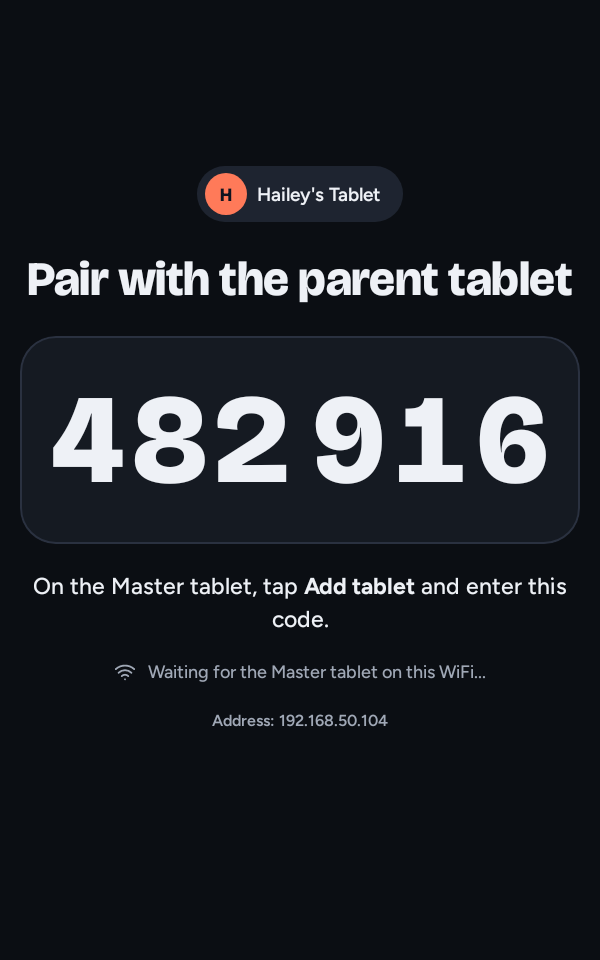
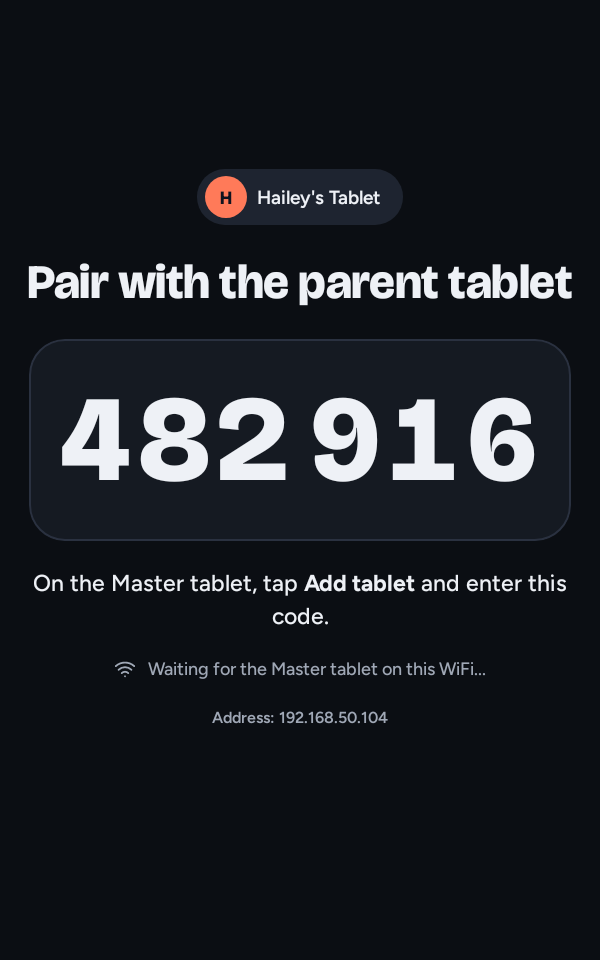
restore qr setup, make it fit landscape tablets, pin update state in screen tests

diff --git a/app/src/main/java/com/nbaltas/nickos/ui/master/QrSetup.kt b/app/src/main/java/com/nbaltas/nickos/ui/master/QrSetup.kt
@@ -1,0 +1,126 @@
+package com.nbaltas.nickos.ui.master
+
+import android.graphics.Bitmap
+import androidx.compose.foundation.Image
+import androidx.compose.foundation.background
+import androidx.compose.foundation.layout.Arrangement
+import androidx.compose.foundation.layout.Box
+import androidx.compose.foundation.layout.BoxWithConstraints
+import androidx.compose.foundation.layout.Column
+import androidx.compose.foundation.layout.Row
+import androidx.compose.foundation.layout.fillMaxSize
+import androidx.compose.foundation.layout.fillMaxWidth
+import androidx.compose.foundation.layout.padding
+import androidx.compose.foundation.layout.size
+import androidx.compose.foundation.layout.width
+import androidx.compose.foundation.layout.widthIn
+import androidx.compose.foundation.rememberScrollState
+import androidx.compose.foundation.shape.CircleShape
+import androidx.compose.foundation.shape.RoundedCornerShape
+import androidx.compose.foundation.verticalScroll
+import androidx.compose.material3.Text
+import androidx.compose.runtime.Composable
+import androidx.compose.runtime.getValue
+import androidx.compose.runtime.mutableStateOf
+import androidx.compose.runtime.produceState
+import androidx.compose.runtime.remember
+import androidx.compose.runtime.setValue
+import androidx.compose.ui.Alignment
+import androidx.compose.ui.Modifier
+import androidx.compose.ui.draw.clip
+import androidx.compose.ui.graphics.Color
+import androidx.compose.ui.graphics.FilterQuality
+import androidx.compose.ui.graphics.asImageBitmap
+import androidx.compose.ui.platform.LocalContext
+import androidx.compose.ui.unit.dp
+import androidx.compose.ui.unit.sp
+import com.google.zxing.BarcodeFormat
+import com.google.zxing.EncodeHintType
+import com.google.zxing.qrcode.QRCodeWriter
+import com.google.zxing.qrcode.decoder.ErrorCorrectionLevel
+import com.nbaltas.nickos.node.Provisioning
+import com.nbaltas.nickos.ui.theme.C
+import com.nbaltas.nickos.ui.theme.FieldLabel
+import com.nbaltas.nickos.ui.theme.Muted
+import com.nbaltas.nickos.ui.theme.NickField
+import com.nbaltas.nickos.ui.theme.SetupHeader
+import com.nbaltas.nickos.ui.theme.Title
+import com.nbaltas.nickos.ui.theme.body
+import com.nbaltas.nickos.ui.theme.disp
+import kotlinx.coroutines.Dispatchers
+import kotlinx.coroutines.withContext
+
+/**
+ * Zero-adb kid tablet setup. Not in the design handoff; follows the Add tablet screen's layout.
+ * Only works on a new or factory-reset tablet: that's Android's rule for Device Owner.
+ */
+@Composable
+fun QrSetupScreen(onBack: () -> Unit, qrDispatcher: kotlinx.coroutines.CoroutineDispatcher = Dispatchers.Default) {
+    val ctx = LocalContext.current
+    var ssid by remember { mutableStateOf("") }
+    var pass by remember { mutableStateOf("") }
+    val qr by produceState<Bitmap?>(null, ssid, pass) {
+        value = withContext(qrDispatcher) { qrBitmap(Provisioning.qrPayload(ctx, ssid.trim(), pass), 900) }
+    }
+    Column(Modifier.fillMaxSize()) {
+        SetupHeader("Master · New kid tablet", onBack)
+        BoxWithConstraints(Modifier.fillMaxSize()) {
+            // Landscape tablets (Orbic 960x600, Galaxy Tab S2 1024x768): code beside the steps, code sized to the height.
+            val landscape = maxWidth > maxHeight && maxWidth >= 700.dp
+            val narrow = maxWidth < 1000.dp && !landscape
+            val compact = landscape && (maxWidth < 1100.dp || maxHeight < 800.dp)
+            val qrSize = if (compact) (maxHeight - 40.dp).coerceIn(260.dp, 460.dp) else 460.dp
+            val steps: @Composable (Modifier) -> Unit = { mod ->
+                Column(mod, verticalArrangement = Arrangement.spacedBy(if (compact) 12.dp else 20.dp)) {
+                    Title("Set up a new kid tablet", if (compact) 38 else 48, lineHeight = 1.02f)
+                    Muted("No cables or computer needed. The kid lock is switched on from the start.", if (compact) 17 else 20)
+                    Step(1, "Start from a new or factory-reset tablet (Settings → System → Reset).")
+                    Step(2, "On its first \"Welcome\" screen, tap the same empty spot 6 times.")
+                    Step(3, "Connect to WiFi if it asks, then point it at this code.")
+                    Step(4, "It installs NickOS by itself. Then name the tablet and pair it with its 6-digit code.")
+                    Column(Modifier.padding(top = 8.dp), verticalArrangement = Arrangement.spacedBy(14.dp)) {
+                        Muted("Optional: put your WiFi in the code so the tablet joins it by itself.", 16)
+                        Row(horizontalArrangement = Arrangement.spacedBy(16.dp)) {
+                            Column(Modifier.weight(1f)) { FieldLabel("WiFi name"); NickField(ssid, { ssid = it }) }
+                            Column(Modifier.weight(1f)) { FieldLabel("WiFi password"); NickField(pass, { pass = it }, password = true) }
+                        }
+                    }
+                }
+            }
+            val code: @Composable () -> Unit = {
+                Box(Modifier.size(qrSize).clip(RoundedCornerShape(36.dp)).background(Color.White).padding(if (compact) 16.dp else 24.dp), contentAlignment = Alignment.Center) {
+                    qr?.let { Image(it.asImageBitmap(), "Setup QR code", Modifier.fillMaxSize(), filterQuality = FilterQuality.None) }
+                }
+            }
+            if (narrow) {
+                Column(Modifier.fillMaxSize().verticalScroll(rememberScrollState()).padding(32.dp), horizontalAlignment = Alignment.CenterHorizontally, verticalArrangement = Arrangement.spacedBy(32.dp)) {
+                    code(); steps(Modifier.fillMaxWidth())
+                }
+            } else {
+                Row(
+                    Modifier.fillMaxSize().verticalScroll(rememberScrollState()).padding(start = if (compact) 32.dp else 80.dp, end = if (compact) 32.dp else 80.dp, bottom = if (compact) 16.dp else 48.dp),
+                    horizontalArrangement = Arrangement.spacedBy(if (compact) 32.dp else 64.dp), verticalAlignment = Alignment.CenterVertically,
+                ) { steps(Modifier.weight(1f)); code() }
+            }
+        }
+    }
+}
+
+@Composable
+private fun Step(n: Int, text: String) {
+    Row(verticalAlignment = Alignment.CenterVertically, horizontalArrangement = Arrangement.spacedBy(16.dp)) {
+        Box(Modifier.size(40.dp).clip(CircleShape).background(C.accent), contentAlignment = Alignment.Center) {
+            Text("$n", style = disp(20.sp), color = C.onAccent)
+        }
+        Text(text, style = body(19.sp, 600, 1.35f), color = C.text, modifier = Modifier.widthIn(max = 560.dp))
+    }
+}
+
+private fun qrBitmap(text: String, size: Int): Bitmap {
+    val m = QRCodeWriter().encode(
+        text, BarcodeFormat.QR_CODE, size, size,
+        mapOf(EncodeHintType.MARGIN to 0, EncodeHintType.ERROR_CORRECTION to ErrorCorrectionLevel.M, EncodeHintType.CHARACTER_SET to "UTF-8"),
+    )
+    val px = IntArray(size * size) { i -> if (m.get(i % size, i / size)) 0xFF000000.toInt() else 0xFFFFFFFF.toInt() }
+    return Bitmap.createBitmap(px, size, size, Bitmap.Config.ARGB_8888)
+}

diff --git a/app/src/test/java/com/nbaltas/nickos/ui/SetupScreensTest.kt b/app/src/test/java/com/nbaltas/nickos/ui/SetupScreensTest.kt
@@ -5,8 +5,10 @@ import androidx.compose.foundation.layout.fillMaxSize
 import androidx.compose.ui.Modifier
 import androidx.compose.ui.semantics.SemanticsActions
 import androidx.compose.ui.semantics.getOrNull
+import androidx.compose.ui.layout.boundsInRoot
 import androidx.compose.ui.test.junit4.createComposeRule
-import androidx.compose.ui.test.onAllNodesWithText
+import androidx.compose.ui.test.onNodeWithContentDescription
+import androidx.compose.ui.test.onRoot
 import androidx.compose.ui.test.onNodeWithText
 import com.nbaltas.nickos.ui.setup.AddTabletScreen
 import com.nbaltas.nickos.ui.setup.PairingCodeBody
@@ -41,6 +43,7 @@ class SetupScreensTest {
         assertEquals("the 6-digit code wrapped onto more than one line", 1, layout.lineCount)
         assertTrue("the 6-digit code is wider than the room it has (${layout.size.width} > ${layout.layoutInput.constraints.maxWidth})", layout.size.width <= layout.layoutInput.constraints.maxWidth)
         assertFalse("part of the code was cut", layout.isLineEllipsized(0))
+        assertEquals("only part of the code is visible (the rest was cut off) size=${layout.size} fs=${layout.layoutInput.style.fontSize} cons=${layout.layoutInput.constraints} sw=${layout.layoutInput.softWrap} lc=${layout.lineCount} text=${layout.layoutInput.text.length}", grouped.length, layout.getLineEnd(0, visibleEnd = true))
     }
 
     @Test fun codeFitsLandscape960() = assertCodeIntact()
@@ -49,11 +52,30 @@ class SetupScreensTest {
     @Config(qualifiers = "w600dp-h960dp-port-mdpi") @Test fun codeFitsPortrait600() = assertCodeIntact()
     @Config(qualifiers = "w400dp-h800dp-port-mdpi") @Test fun codeFitsPhone() = assertCodeIntact()
 
-    @Test fun addTabletNoLongerOffersQrSetup() {
-        rule.setContent { NickTheme { Box(Modifier.fillMaxSize()) { AddTabletScreen({}, "Master · Add tablet") {} } } }
+    /** Robolectric installs the app with no signing certificate; the QR payload needs one. */
+    private fun giveAppASignature() {
+        val ctx = androidx.test.core.app.ApplicationProvider.getApplicationContext<android.content.Context>()
+        org.robolectric.Shadows.shadowOf(ctx.packageManager).getInternalMutablePackageInfo(ctx.packageName).signatures = arrayOf(android.content.pm.Signature("0102030405"))
+    }
+
+    private fun assertQrWholeAndBigEnough(minDp: Int) {
+        giveAppASignature()
+        rule.setContent { NickTheme { Box(Modifier.fillMaxSize()) { com.nbaltas.nickos.ui.master.QrSetupScreen({}, kotlinx.coroutines.Dispatchers.Unconfined) } } }
         rule.waitForIdle()
-        assertTrue(rule.onAllNodesWithText("QR", substring = true, ignoreCase = true).fetchSemanticsNodes().isEmpty())
-        assertTrue(rule.onAllNodesWithText("Brand-new", substring = true).fetchSemanticsNodes().isEmpty())
-        rule.onNodeWithText("Add tablet").assertExists()
+        val n = rule.onNodeWithContentDescription("Setup QR code").assertExists().fetchSemanticsNode()
+        val b = n.boundsInRoot
+        val root = rule.onRoot().fetchSemanticsNode().boundsInRoot
+        val dp = rule.density.run { b.width.toDp().value }
+        assertTrue("the QR code is clipped by the screen: $b in $root", b.left >= root.left && b.top >= root.top && b.right <= root.right && b.bottom <= root.bottom)
+        assertTrue("the QR code is too small to scan reliably ($dp dp)", dp >= minDp)
+    }
+
+    @Config(sdk = [27]) @Test fun qrSetupWholeAtLandscape960() = assertQrWholeAndBigEnough(380)
+    @Config(sdk = [27], qualifiers = "w1024dp-h768dp-land-mdpi") @Test fun qrSetupWholeAtLandscape1024() = assertQrWholeAndBigEnough(420)
+
+    @Test fun addTabletStillOffersQrSetupWhenWired() {
+        rule.setContent { NickTheme { Box(Modifier.fillMaxSize()) { AddTabletScreen({}, "Master · Add tablet", onQr = {}) {} } } }
+        rule.waitForIdle()
+        rule.onNodeWithText("Brand-new", substring = true).assertExists()
     }
 }

diff --git a/app/src/main/java/com/nbaltas/nickos/ui/setup/Setup.kt b/app/src/main/java/com/nbaltas/nickos/ui/setup/Setup.kt
@@ -332,9 +332,9 @@ fun PairingCodeBody(name: String, color: Int, avatar: String, code: String?) {
             val measurer = rememberTextMeasurer()
             val density = LocalDensity.current
             val style = disp(codeMax.sp, 800, 1f).copy(letterSpacing = 0.06.em, fontFeatureSettings = "tnum")
-            val fullWidth = remember(grouped, density) { measurer.measure(grouped, style, softWrap = false, maxLines = 1).size.width }
+            val fullWidth = measurer.measure(grouped, style, softWrap = false, maxLines = 1).size.width
             val availPx = with(density) { availWidth.toPx() }
-            val sp = if (fullWidth <= availPx || fullWidth == 0) codeMax else (codeMax * availPx / fullWidth).toInt().coerceAtLeast(40)
+            val sp = if (fullWidth <= availPx * 0.96f || fullWidth == 0) codeMax else (codeMax * availPx * 0.96f / fullWidth).toInt().coerceAtLeast(40)
             Text(
                 grouped,
                 style = style.copy(fontSize = sp.sp, lineHeight = sp.sp),
@@ -371,7 +371,7 @@ private fun wifiAddress(): String? = try {
 
 /** Enter a Node's 6-digit code. Used in setup, from the home "Add tablet" card and Settings. */
 @Composable
-fun AddTabletScreen(back: () -> Unit, step: String, onLinked: (MasterRuntime.PairResult) -> Unit) {
+fun AddTabletScreen(back: () -> Unit, step: String, onQr: (() -> Unit)? = null, onLinked: (MasterRuntime.PairResult) -> Unit) {
     val app = App.get(LocalContext.current)
     val scope = rememberCoroutineScope()
     var digits by rememberSaveable { mutableStateOf("") }
@@ -403,6 +403,10 @@ fun AddTabletScreen(back: () -> Unit, step: String, onLinked: (MasterRuntime.Pai
                 Column(m, verticalArrangement = Arrangement.spacedBy(22.dp)) {
                     Title("Add tablet", 56)
                     Muted("Enter the 6-digit code showing on the kid's tablet. Both tablets need to be on the same WiFi.", 22, Modifier.widthIn(max = 460.dp))
+                    if (onQr != null) Text(
+                        "Brand-new or reset tablet? Set it up with a QR code",
+                        style = body(19.sp, 700), color = C.accent, modifier = Modifier.clickable(onClick = onQr),
+                    )
                     if (typing) Column {
                         FieldLabel("Kid's tablet address (shown under its code)")
                         NickField(address, { address = it.trim() }, Modifier.widthIn(max = 460.dp), keyboard = androidx.compose.ui.text.input.KeyboardType.Uri, placeholder = "192.168.1.23")

diff --git a/app/src/test/java/com/nbaltas/nickos/DesignScreensTest.kt b/app/src/test/java/com/nbaltas/nickos/DesignScreensTest.kt
@@ -142,6 +142,8 @@ class DesignScreensTest {
         TimeZone.setDefault(TimeZone.getTimeZone("Australia/Sydney"))
         Locale.setDefault(Locale.ENGLISH)
         screenNow = { FIXED_NOW }
+        // The update check runs on app start and its answer is global: pin it so About never depends on test order.
+        set(com.nbaltas.nickos.update.Updater, "_state", com.nbaltas.nickos.update.UpdateState.Idle)
         val s = app.store
         s.resetAll()
         s.setName("Dad's Tablet")
@@ -480,6 +482,18 @@ class DesignScreensTest {
     @Test fun masterAddCode1100() = masterCode()
     @Config(qualifiers = "w600dp-h960dp-port-mdpi")
     @Test fun masterAddCodePortrait() = masterCode()
+
+    private fun qrSetup() {
+        val ctx = androidx.test.core.app.ApplicationProvider.getApplicationContext<android.content.Context>()
+        org.robolectric.Shadows.shadowOf(ctx.packageManager).getInternalMutablePackageInfo(ctx.packageName).signatures = arrayOf(android.content.pm.Signature("0102030405"))
+        qrShot()
+    }
+    private fun qrShot() = shot("Master-QrSetup-${sizeTag()}") { com.nbaltas.nickos.ui.master.QrSetupScreen({}, kotlinx.coroutines.Dispatchers.Unconfined) }
+
+    @Config(sdk = [27], qualifiers = "w960dp-h600dp-land-mdpi")
+    @Test fun masterQrSetup960() = qrSetup()
+    @Config(sdk = [27], qualifiers = "w1024dp-h768dp-land-mdpi")
+    @Test fun masterQrSetup1024() = qrSetup()
 
     // ---- landscape sweep: every tablet screen at the two real landscape sizes ----
     // Developer tool, off by default (it would write ~80 pictures). Turn it on by creating the file .pipeline/sweep,

diff --git a/app/src/main/java/com/nbaltas/nickos/ui/master/MasterApp.kt b/app/src/main/java/com/nbaltas/nickos/ui/master/MasterApp.kt
@@ -102,6 +102,7 @@ sealed interface MScreen {
     data class Settings(val section: Int = 0) : MScreen
     data object Drawer : MScreen
     data object Cameras : MScreen
+    data object QrSetup : MScreen
     data object Together : MScreen
 }
 
@@ -141,7 +142,8 @@ fun MasterApp() {
                 onCameras = { screen = MScreen.Cameras },
                 onTogether = { screen = MScreen.Together },
             )
-            MScreen.AddTablet -> AddTabletScreen(back = { screen = MScreen.Home }, step = "Master · Add tablet") { screen = MScreen.Linked(it) }
+            MScreen.AddTablet -> AddTabletScreen(back = { screen = MScreen.Home }, step = "Master · Add tablet", onQr = { screen = MScreen.QrSetup }) { screen = MScreen.Linked(it) }
+            MScreen.QrSetup -> QrSetupScreen(onBack = { screen = MScreen.AddTablet })
             is MScreen.Linked -> LinkedScreen(s.r, onAnother = { screen = MScreen.AddTablet }, onContinue = { screen = MScreen.Home }, continueLabel = "Done")
             is MScreen.Control -> ControlScreen(
                 s.nodeId, s.tab,

diff --git a/SETUP.md b/SETUP.md
@@ -7,6 +7,19 @@ NickOS is one app with two roles. Install the same APK on every tablet.
 
 Both tablets must be on the same WiFi (home or the car router). No internet is needed.
 
+## Easiest: QR setup (new or factory-reset kid tablet, no computer)
+
+1. On the parent tablet: **Add tablet → "Brand-new or reset tablet? Set it up with a QR code"**.
+   Optionally type your WiFi into that screen so the kid tablet joins it by itself.
+2. On the kid tablet's very first "Welcome" screen, tap the same empty spot **6 times**.
+   A QR scanner opens (older Android may ask for WiFi first).
+3. Scan the code. Android downloads NickOS from the update server and switches the kid lock on.
+4. NickOS opens straight at "Name this tablet". Then pair it with its 6-digit code as usual.
+
+The APK comes from `https://nickflix-config.nbaltas.org/nickos/nickos-latest.apk` (public on
+purpose: it holds no secrets). This only works on a tablet with no accounts yet, which is
+Android's rule for kid lock, same as the adb route below.
+
 ## 1. Kid tablet (Node), the adb way
 
 1. Install NickOS, open it, pick **Node**, name the tablet, then leave the 6-digit code on screen.
